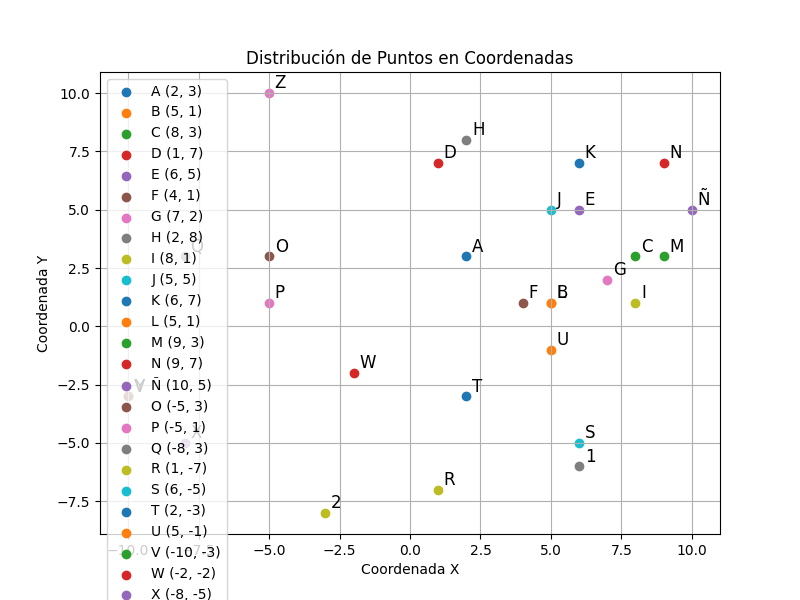
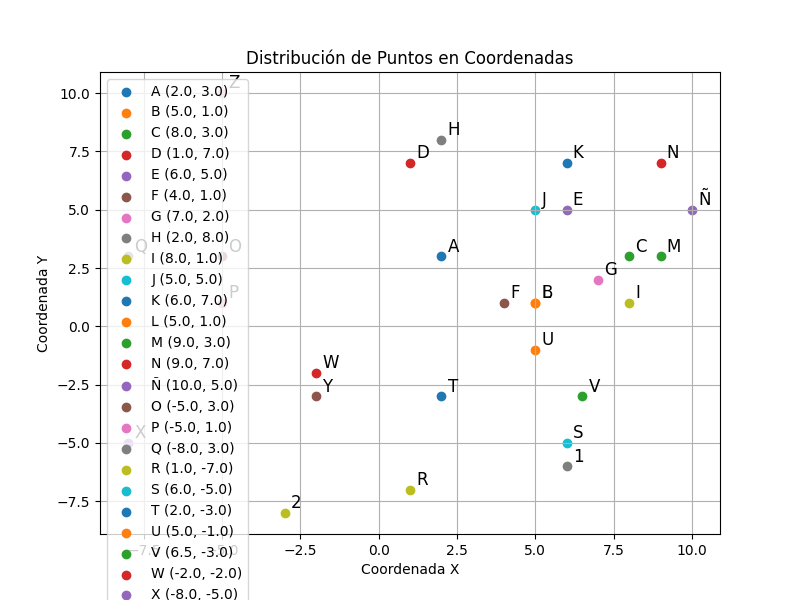
practica2cambio2

diff --git a/practica2/matriz.py b/practica2/matriz.py
@@ -27,10 +27,10 @@ puntos = {
     "S": (6, -5),
     "T": (2, -3),
     "U": (5, -1),
-    "V": (-10, -3),
+    "V": (6.5, -3),
     "W": (-2, -2),
     "X": (-8, -5),
-    "Y": (-10, -3),
+    "Y": (-2, -3),
     "Z": (-5, 10),
     "1": (6, -6),
     "2": (-3, -8)
